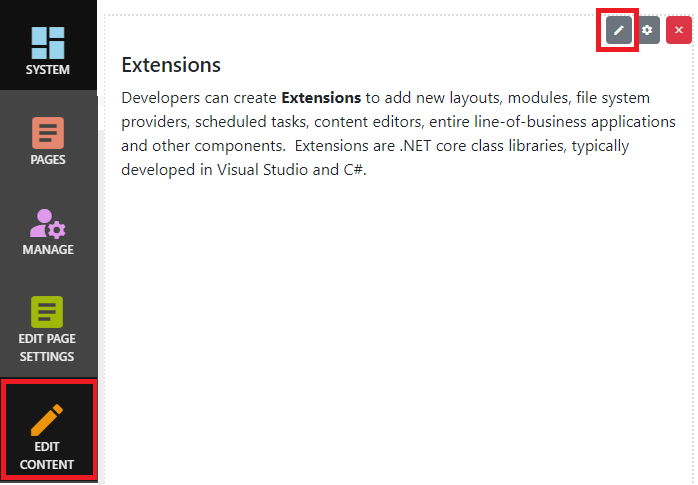
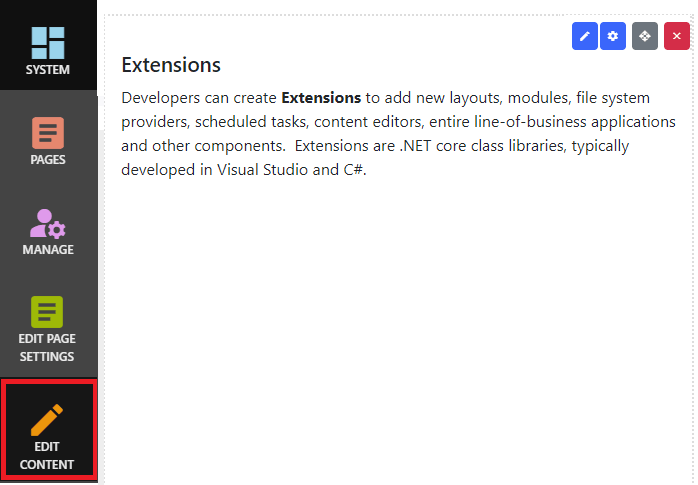
Updated documentation.

Changed region(s): [[0.8123, 0.0, 0.9928, 0.1237]]

diff --git a/Documentation/Developers/topics/data-providers.md b/Documentation/Developers/topics/data-providers.md
@@ -42,40 +42,39 @@ using Nucleus.Modules.Documents.Models;
 using Microsoft.EntityFrameworkCore;
 using System.Threading.Tasks;
 
-namespace Nucleus.Modules.Documents.DataProviders
+namespace Nucleus.Modules.Documents.DataProviders;
+
+public class DocumentsDataProvider : Nucleus.Data.EntityFramework.DataProvider, IDocumentsDataProvider
 {
-  public class DocumentsDataProvider : Nucleus.Data.EntityFramework.DataProvider, IDocumentsDataProvider
+  protected IEventDispatcher EventManager { get; }
+  protected new DocumentsDbContext Context { get; }
+
+  public DocumentsDataProvider(DocumentsDbContext context, IEventDispatcher eventManager, ILogger<DocumentsDataProvider> logger) : base(context, logger)
   {
-    protected IEventDispatcher EventManager { get; }
-    protected new DocumentsDbContext Context { get; }
+    this.EventManager = eventManager;
+    this.Context = context;
+  }
 
-    public DocumentsDataProvider(DocumentsDbContext context, IEventDispatcher eventManager, ILogger<DocumentsDataProvider> logger) : base(context, logger)
-    {
-      this.EventManager = eventManager;
-      this.Context = context;
-    }
-
-    public async Task<Document> Get(Guid id)
-    {
-      return await this.Context.Documents
-        .Where(document => document.Id == id)
-        .Include(document => document.Category)
-        .Include(document => document.File)
-        .AsNoTracking()
-        .FirstOrDefaultAsync();
-    }
+  public async Task<Document> Get(Guid id)
+  {
+    return await this.Context.Documents
+      .Where(document => document.Id == id)
+      .Include(document => document.Category)
+      .Include(document => document.File)
+      .AsNoTracking()
+      .FirstOrDefaultAsync();
+  }
     
-    public async Task<IList<Document>> List(PageModule pageModule)
-    {
-      return await this.Context.Documents
-        .Where(document => EF.Property<Guid>(document, "ModuleId") == pageModule.Id)
-        .Include(document => document.Category)
-        .Include(document => document.File)
-        .AsNoTracking()
-        .AsSingleQuery()
-        .OrderBy(document => document.SortOrder)
-        .ToListAsync();
-    }
+  public async Task<IList<Document>> List(PageModule pageModule)
+  {
+    return await this.Context.Documents
+      .Where(document => EF.Property<Guid>(document, "ModuleId") == pageModule.Id)
+      .Include(document => document.Category)
+      .Include(document => document.File)
+      .AsNoTracking()
+      .AsSingleQuery()
+      .OrderBy(document => document.SortOrder)
+      .ToListAsync();
   }
 }
 ```
@@ -91,34 +90,33 @@ using Nucleus.Extensions.Logging;
 using Microsoft.EntityFrameworkCore;
 using Nucleus.Modules.Documents.Models;
 
-namespace Nucleus.Modules.Documents.DataProviders
+namespace Nucleus.Modules.Documents.DataProviders;
+
+public class DocumentsDbContext : Nucleus.Data.EntityFramework.DbContext
 {
-  public class DocumentsDbContext : Nucleus.Data.EntityFramework.DbContext
+  public DbSet<Document> Documents { get; set; }
+
+  public DocumentsDbContext(DbContextConfigurator<DocumentsDataProvider> dbConfigurator, IHttpContextAccessor httpContextAccessor, ILoggerFactory loggerFactory) : base(dbConfigurator, httpContextAccessor, loggerFactory)  {  }
+
+  /// <summary>
+  /// Configure entity framework with schema information that it cannot automatically detect.
+  /// </summary>
+  /// <param name="builder"></param>
+  protected override void OnModelCreating(ModelBuilder builder)
   {
-    public DbSet<Document> Documents { get; set; }
+    base.OnModelCreating(builder);
 
-    public DocumentsDbContext(DbContextConfigurator<DocumentsDataProvider> dbConfigurator, IHttpContextAccessor httpContextAccessor, ILoggerFactory loggerFactory) : base(dbConfigurator, httpContextAccessor, loggerFactory)  {  }
+    builder.Entity<Document>().Property<Guid>("ModuleId");
 
-    /// <summary>
-    /// Configure entity framework with schema information that it cannot automatically detect.
-    /// </summary>
-    /// <param name="builder"></param>
-    protected override void OnModelCreating(ModelBuilder builder)
-    {
-      base.OnModelCreating(builder);
+    builder.Entity<Document>()
+      .HasOne(document => document.Category)
+      .WithMany()
+      .HasForeignKey("CategoryId");
 
-      builder.Entity<Document>().Property<Guid>("ModuleId");
-
-      builder.Entity<Document>()
-        .HasOne(document => document.Category)
-        .WithMany()
-        .HasForeignKey("CategoryId");
-
-      builder.Entity<Document>()
-        .HasOne(document => document.File)
-        .WithMany()
-        .HasForeignKey("FileId");
-    }
+    builder.Entity<Document>()
+      .HasOne(document => document.File)
+      .WithMany()
+      .HasForeignKey("FileId");
   }
 }
 ```
@@ -134,26 +132,24 @@ The example below is from the core Documents module.  Code which does not demons
 for brevity.
 
 ```
-using System.Threading.Tasks;
 using Microsoft.AspNetCore.Hosting;
 using Microsoft.Extensions.DependencyInjection;
 using Nucleus.Modules.Documents.DataProviders;
 using Nucleus.Abstractions.Search;
 using Nucleus.Data.EntityFramework;
-using Nucleus.Data.Common;
 
 [assembly:HostingStartup(typeof(Nucleus.Modules.Documents.Startup))]
-namespace Nucleus.Modules.Documents
+
+namespace Nucleus.Modules.Documents;
+
+public class Startup : IHostingStartup
 {
-  public class Startup : IHostingStartup
+  public void Configure(IWebHostBuilder builder)
   {
-    public void Configure(IWebHostBuilder builder)
+    builder.ConfigureServices((context, services) => 
     {
-      builder.ConfigureServices((context, services) => 
-      {
-        services.AddDataProvider<IDocumentsDataProvider, DataProviders.DocumentsDataProvider, DataProviders.DocumentsDbContext>(context.Configuration);
-      });
-    }
+      services.AddDataProvider<IDocumentsDataProvider, DataProviders.DocumentsDataProvider, DataProviders.DocumentsDbContext>(context.Configuration);
+    });
   }
 }
 ```

diff --git a/Documentation/Developers/topics/event-handlers.md b/Documentation/Developers/topics/event-handlers.md
@@ -40,39 +40,34 @@ using Nucleus.Abstractions.EventHandlers;
 
 [assembly:HostingStartup(typeof(Nucleus.Modules.Documents.Startup))]
 
-namespace Nucleus.Modules.Documents
+namespace Nucleus.Modules.Documents;
+
+public class Startup : IHostingStartup
 {
-
-  public class Startup : IHostingStartup
+  public void Configure(IWebHostBuilder builder)
   {
-    public void Configure(IWebHostBuilder builder)
+    builder.ConfigureServices((context, services) => 
     {
-      builder.ConfigureServices((context, services) => 
-      {
-        services.AddSingleton<DocumentsManager>();
-        services.AddTransient<IContentMetaDataProducer, DocumentsMetaDataProducer>();
-        services.AddDataProvider<IDocumentsDataProvider, DataProviders.DocumentsDataProvider, DataProviders.DocumentsDbContext>(context.Configuration);
+      // code which does not demonstrate event handling has been removed from this example
 
-        services.AddSingletonSystemEventHandler<MigrateEventArgs, MigrateEvent, MigrationEventHandler>();
-      });
-    }
+      services.AddSingletonSystemEventHandler<MigrateEventArgs, MigrateEvent, MigrationEventHandler>();
+    });
   }
+}
 
-  public class MigrationEventHandler : Nucleus.Abstractions.EventHandlers.ISystemEventHandler<MigrateEventArgs, MigrateEvent>
+public class MigrationEventHandler : Nucleus.Abstractions.EventHandlers.ISystemEventHandler<MigrateEventArgs, MigrateEvent>
+{
+  public Task Invoke(MigrateEventArgs item)
   {
-    public Task Invoke(MigrateEventArgs item)
+    if (item.SchemaName == "Nucleus.Modules.Documents")
     {
-      if (item.SchemaName == "Nucleus.Modules.Documents")
+      if (item.ToVersion == new System.Version(1,0,0))
       {
-        if (item.ToVersion == new System.Version(1,0,0))
-        {
-
-        }
-        // no implementation.  
-        // This is a test and example of how you would execute code after a db schema migration.
+        // This is an example of how you would execute code after a db schema migration.
+        // There is no implementation in this example - you would add your code to implement event handling here. 
       }
-      return Task.CompletedTask;
     }
+    return Task.CompletedTask;
   }
 }
 ```

diff --git a/Documentation/Setup and Configuration/Api-Keys.md b/Documentation/Setup and Configuration/Api-Keys.md
@@ -3,9 +3,9 @@ To manage Api Keys, click "Settings", then choose "Api Keys".
 
 ![Api Keys](Api-Keys.png)
 
-Api Keys are used to manage access keys and shared secrets used to authenticate inbound requests when applications (rather than users) access 
-Nucleus endpoints.  The search feeder uses an Api Key to authenticate when retrieving page content for the search index, and other Nucleus extensions 
-can use Api Keys to authenticate applications which use their functionality.
+The Api Keys editor is used to manage access keys and shared secrets.  Api Keys may be used to authenticate inbound requests when applications (rather 
+than users) access Nucleus endpoints.  The search feeder uses an Api Key to identify itself when retrieving page content for the search index, and 
+other Nucleus extensions or external applications can use Api Keys to authenticate themselves when sending a request to Nucleus.
 
 ## Properties
 
@@ -22,6 +22,6 @@ can use Api Keys to authenticate applications which use their functionality.
 ### Making a request using an Api Key
 Applications which make Http requests to Nucleus must specify an Authorization header, with a "scheme" of `Nucleus-HMAC256` and a value which 
 is generated using values from the request and the shared secret.  The [Nucleus.Extensions.HttpRequestExtensions](/api-documentation/Nucleus.Extensions.xml/Nucleus.Extensions.HttpRequestExtensions/) 
-class contains a `.Sign` method which will add the header to a Http Request object.  Applications which do not want to reference the 
+class contains a `.Sign` method which will add the header to a Http Request object.  Application developers who do not want to reference the 
 Nucleus.Extensions assembly can copy the [source code](https://github.com/Inventua/nucleus-core/blob/main/Nucleus.Extensions/HttpRequestExtensions.cs) 
 into their project.

diff --git a/Documentation/Content Managers/Editing.md b/Documentation/Content Managers/Editing.md
@@ -1,11 +1,16 @@
 ## Editing Content
 You can edit your content or module settings by clicking the `Edit Content` button at the bottom-left of the page.  This will enable editing mode, which will 
-display a border around each module, and will enable editing controls.
+display a border around each module, and will enable editing controls.  The editing controls appear when you hover over your module content.  
 
 ![Editing](Editing.png)
 
-When editing mode is on, you can hover your mouse pointer over a module to see the editing controls.  You can edit content, edit settings or delete a module.  You 
-can also edit content using the `Edit Page Settings` button or by clicking `Pages` , navigating to your page and choosing the `Modules` tab.  Use the page settings 
-page to add new modules.
+Use the editing controls to edit content in a popup dialog, edit settings, move the module or delete a module.  You can also edit content using the 
+`Edit Page Settings` button or by clicking `Pages`, navigating to your page and choosing the `Modules` tab.  Use the page settings page to add new modules.
 
-> You can also edit module settings (content) in the `Pages` control panel - choose the `Modules` tab and click the edit button there.
+### Inline Editing
+When edit mode is on, you can edit your module title by clicking in it and typing.  If your module is a Html module, or another module type which supports 
+inline editing, you can make simple changes to content by clicking your text and typing.
+
+### Moving Modules
+Click and drag the ![Move](Editing-move.png) button to move your module to another pane, or if the modules current pane contains more than one module, to 
+change the order in which the modules are displayed.

diff --git a/Documentation/Content Managers/FilesAndFolders.md b/Documentation/Content Managers/FilesAndFolders.md
@@ -40,11 +40,13 @@ file.  If you need to support file types that aren't in the default approved lis
 
 > The default allowed file extensions are web documents (css, htm, html), 
 images (ico, jpg and jpeg, gif, png, bmp, webp, tif and tiff), Microsoft Office documents (doc, docx, pptx, ppt, xls, xlsx, vsd),
-video and audio (mp4, mpg, mpeg, webm, mkv, mka), common document formats (rtf, xps, pdf), plain-text (txt, md, xml) and zip files.
+video and audio (mp4, mpg, mpeg, webm, mkv, mka), common document formats (rtf, xps, pdf), plain-text (txt, md, xml) and zip files.  System
+administrators can add or remove allowed file types in the Nucleus application [configuration files](/configuration-reference/).
 
 ## Rename a file or folder
-Some file systems do not support rename operations (most cloud file systems).  If your file system provider supports it, use the 
-check boxes on the left to select a single files or folder and click `Rename`.  You will prompted for the new name.
+Some file systems do not support rename operations (most cloud file systems including Amazon S3 and Azure do not support rename operations).  
+If your file system provider supports it, use the check boxes on the left to select a single file or folder and click `Rename`.  You will 
+prompted for the new name.
 
 > You can't change the file extension of a file when renaming it.  This is a security measure to prevent users 
 from circumventing restricted file type checking during upload.

diff --git a/Documentation/Developers/topics/caching-data.md b/Documentation/Developers/topics/caching-data.md
@@ -13,14 +13,13 @@ using Nucleus.Abstractions.Managers;
 using Nucleus.Modules.Links.Models;
 using System;
 
-namespace Nucleus.Modules.Links
+namespace Nucleus.Modules.Links;
+
+public static class CacheExtensions
 {
-  public static class CacheExtensions
+  public static CacheCollection<Guid, Link> LinksCache(this ICacheManager cacheManager)
   {
-    public static CacheCollection<Guid, Link> LinksCache(this ICacheManager cacheManager)
-    {
-      return cacheManager.Get<Guid, Link>();
-    }
+    return cacheManager.Get<Guid, Link>();
   }
 }
 ```
@@ -35,18 +34,17 @@ dependency injection automatically provides an instance of the Cache Manager.
 ```
 using Nucleus.Abstractions.Managers;
 
-namespace Nucleus.Modules.Links
+namespace Nucleus.Modules.Links;
+
+public class LinksManager
 {
-  public class LinksManager
-  {
-    private IDataProviderFactory DataProviderFactory { get; }
-    private ICacheManager CacheManager { get; }
+  private IDataProviderFactory DataProviderFactory { get; }
+  private ICacheManager CacheManager { get; }
     
-    public LinksManager(IDataProviderFactory dataProviderFactory, ICacheManager cacheManager)
-    {
-      this.CacheManager = cacheManager;
-      this.DataProviderFactory = dataProviderFactory;
-    }
+  public LinksManager(IDataProviderFactory dataProviderFactory, ICacheManager cacheManager)
+  {
+    this.CacheManager = cacheManager;
+    this.DataProviderFactory = dataProviderFactory;
   }
 }
 ```

diff --git a/Documentation/Developers/topics/razor-views.md b/Documentation/Developers/topics/razor-views.md
@@ -59,7 +59,7 @@ can merge style sheets, and will use the minified versions of your style sheets 
 and `~#` represents the root path for the currently executing extension (`/extensions/your-extension`).
 
 ### Headings
-In a ===Settings== view, the contents of any header element with the class `nucleus-modal-caption` are copied to the header of the modal dialog which
+In a ==Settings== view, the contents of any header element with the class `nucleus-modal-caption` are copied to the header of the modal dialog which
 is displayed to contain your settings view, and is then removed from the document.
 ```
 <h1 class="nucleus-modal-caption">Documents Settings</h1>

diff --git a/Documentation/Developers/topics/saving-settings.md b/Documentation/Developers/topics/saving-settings.md
@@ -268,4 +268,7 @@ namespace Nucleus.Modules.MultiContent.Controllers
 ```
 
 ### Use you own database tables
-Complex settings which aren't just name/value pairs should be stored in database tables that you create for your extension.
+Complex settings which aren't just name/value pairs should be stored in database tables that you create for your extension.  Create your own 
+[Data Provider](/developers/data-providers/) and (optionally) a Manager class to save and retrieve your complex settings.
+
+**See also:**  [Developing a Nucleus Module](/develop/walkthroughs/developing-a-nucleus-module/)

diff --git a/Documentation/Setup and Configuration/Site-Settings.md b/Documentation/Setup and Configuration/Site-Settings.md
@@ -5,10 +5,6 @@ To manage site settings, after logging in as a system administrator or site admi
 
 If you are logged on as a system administrator, you can also manage or add site from the `Settings` control panel.  Additional sites have their own set of pages and users.
 
-> **_NOTE:_**   Nucleus version 1.0 has user interface elements which allow you to set up `Site Groups`.  In the future, this will allow you to 
-share users between sites, but this functionality has not yet been implemented. 
-
-
 ![Site Settings](Site-Settings-Editor.png)
 
 ## Properties
